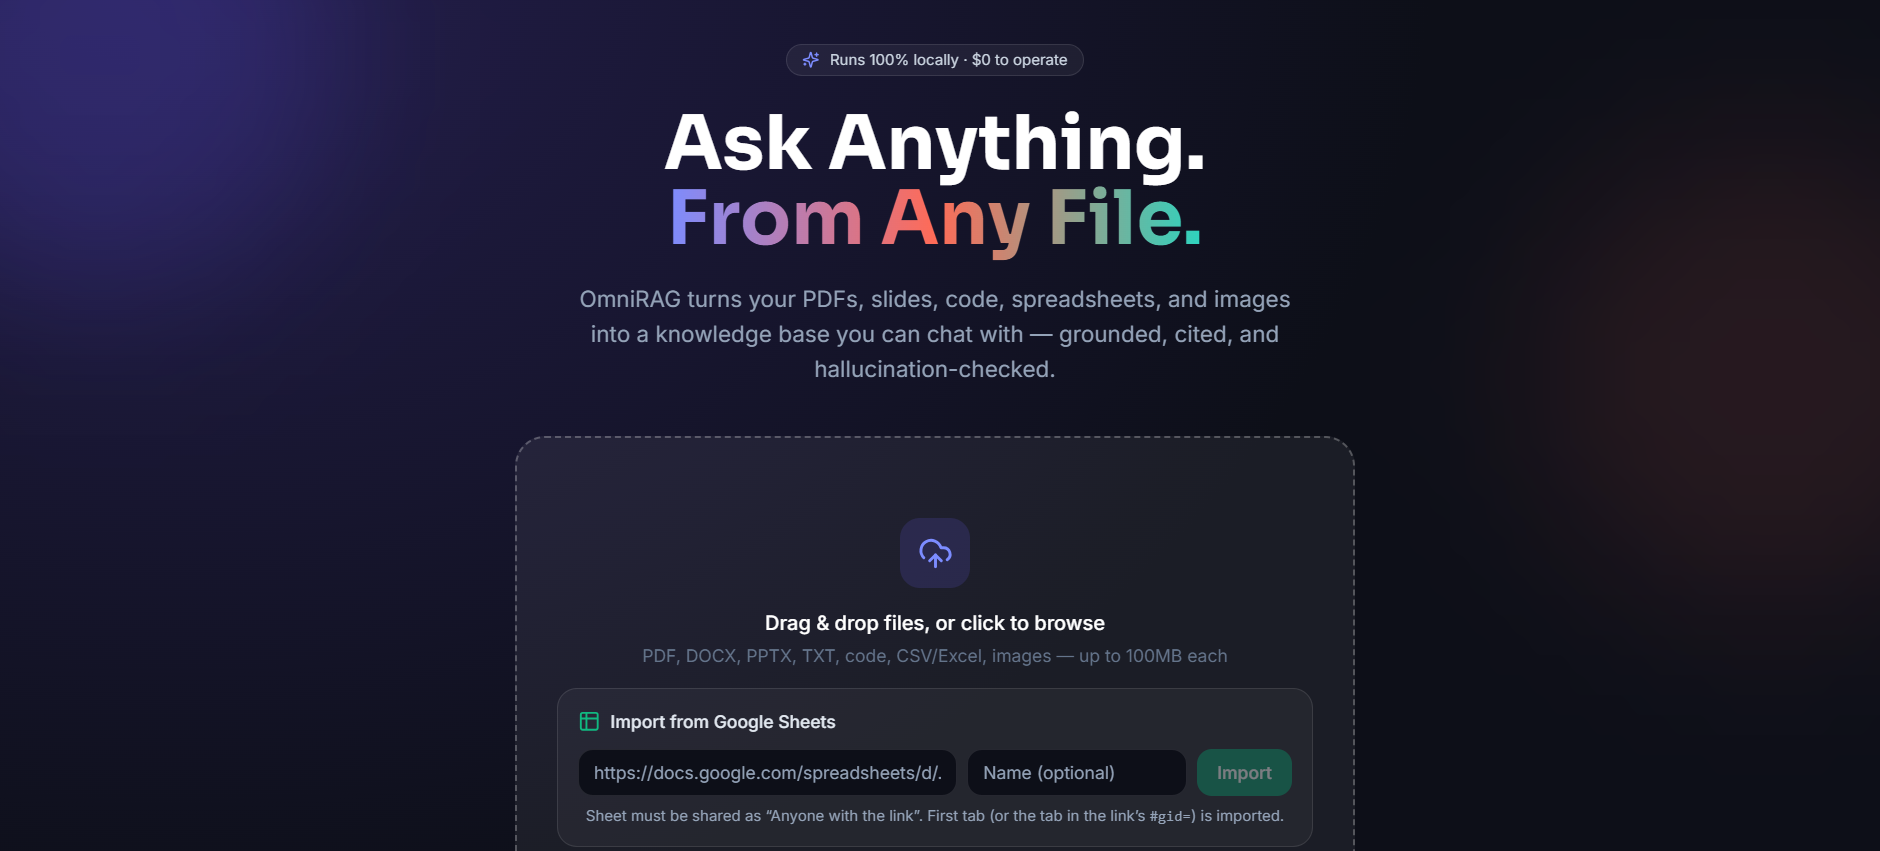
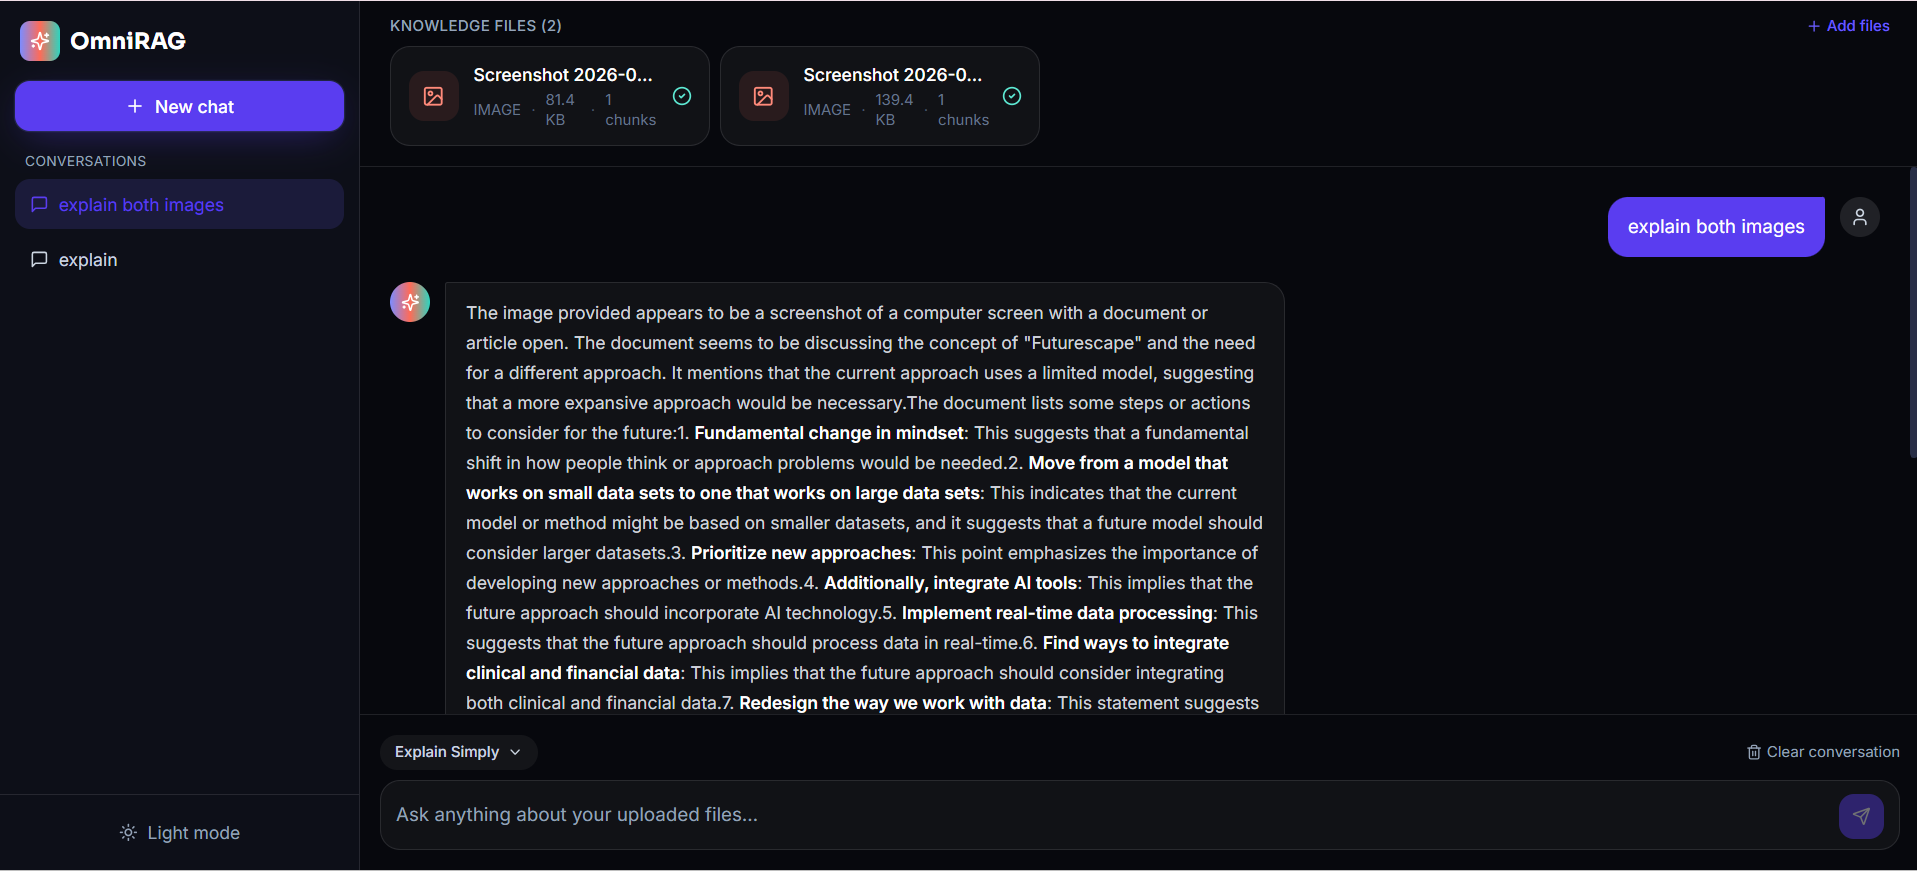
docs: fix README captions and tree label, add CI badge and security section

diff --git a/README.md b/README.md
@@ -6,7 +6,9 @@
 
 **Chat with any file — grounded, cited, hallucination-checked answers.**
 
-Runs 100% locally · $0 infrastructure cost · no cloud APIs required
+Runs 100% locally by default · $0 infrastructure cost · no cloud APIs required (optional Groq fallback off by default)
+
+[![CI](https://github.com/richiupadhyay2002-maker/Omnirag/actions/workflows/ci.yml/badge.svg)](https://github.com/richiupadhyay2002-maker/Omnirag/actions/workflows/ci.yml)
 
 ![Python](https://img.shields.io/badge/Python-3.11-3776AB?logo=python&logoColor=white&style=flat-square)
 ![FastAPI](https://img.shields.io/badge/FastAPI-009688?logo=fastapi&logoColor=white&style=flat-square)
@@ -27,7 +29,7 @@ Runs 100% locally · $0 infrastructure cost · no cloud APIs required
 
 The engineering focus of this project is the layer most RAG demos skip: **per-file-type ingestion that preserves provenance**. Every document type gets its own loader and chunking strategy, normalizing heterogeneous files into a common shape that carries source metadata. At query time, that metadata powers document-scoped retrieval, citations computed independently of generation, and a **hallucination guard** that forces the model to answer only from retrieved context — or state that the answer wasn't found.
 
-Everything runs on your machine: local embeddings (sentence-transformers), an on-disk vector database (ChromaDB), and a local LLM served by Ollama — with an optional free-tier Groq fallback.
+Everything runs on your machine by default: local embeddings (sentence-transformers), an on-disk vector database (ChromaDB), and a local LLM served by Ollama. An optional free-tier Groq fallback exists but is **off by default** (`LLM_PROVIDER=ollama`); enabling it sends queries to a third-party API.
 
 ## Screenshots
 
@@ -38,9 +40,9 @@ Everything runs on your machine: local embeddings (sentence-transformers), an on
 </p>
 
 <p align="center">
-  <img src="docs/screenshots/landing-hero.png" alt="OmniRAG answering 'explain both images' with a grounded analysis of two uploaded image files" width="860">
+  <img src="docs/screenshots/landing-hero.png" alt="OmniRAG landing page hero — headline, upload dropzone, and feature highlights" width="860">
   <br>
-  <em>Image Q&amp;A — two uploaded images surface as knowledge cards, answered with a grounded step-by-step analysis</em>
+  <em>Landing page — headline, drag-and-drop upload, and supported file types</em>
 </p>
 
 ## Key features
@@ -168,7 +170,7 @@ The evaluation harness runs a 15-question golden set (factual, cross-file, code,
 ## Project structure
 
 ```
-omnirag/
+Omnirag/
 ├── backend/
 │   ├── app/
 │   │   ├── main.py             # FastAPI app & routes
@@ -187,6 +189,21 @@ omnirag/
 ├── docker-compose.yml
 └── README.md
 ```
+
+## Security and privacy
+
+- **Data stays local by default.** Embeddings (sentence-transformers), the
+  vector store (ChromaDB, on-disk under `backend/data/`), uploaded files, and
+  generation (Ollama) all run on your machine — nothing leaves it unless you
+  enable the optional Groq fallback.
+- **Never commit `.env` or uploads.** Real API keys, `backend/data/`,
+  `*.sqlite3` / `*.db` files, eval outputs (`backend/eval/results.json`), and
+  IDE settings are gitignored. Copy `backend/.env.example` to `backend/.env`
+  and keep secrets local. See [SECURITY.md](SECURITY.md) for how to report
+  vulnerabilities.
+- **Groq fallback is optional and off by default** (`LLM_PROVIDER=ollama`).
+  Setting `LLM_PROVIDER=groq` sends your queries and retrieved context to
+  Groq's third-party API — only enable it deliberately with your own key.
 
 ## Roadmap
 
